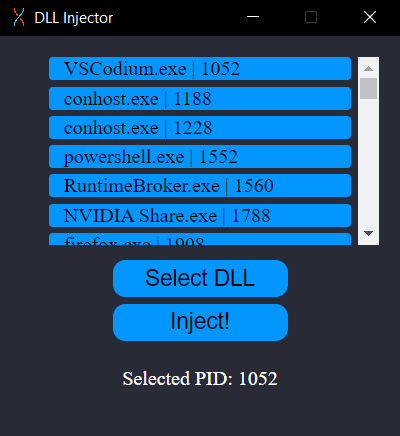
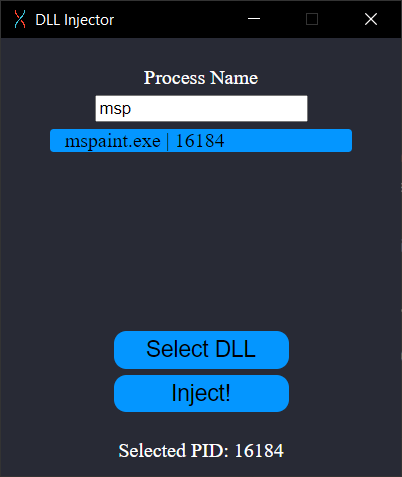
Search Bar

diff --git a/src/assets/main.css b/src/assets/main.css
@@ -13,6 +13,7 @@ button{
     width: 140px;
     height: 30px;
     font-size: 18px;
+    cursor: pointer;
 }
 
 button:hover{
@@ -48,6 +49,7 @@ button:hover{
     float: left;
     padding-left: 12px;
     border-radius: 3px;
+    cursor: pointer;
 }
 
 #listparent{
@@ -66,5 +68,9 @@ button:hover{
 
 
 #debug{
+    color: #ffffff;
+}
+
+#search_label{
     color: #ffffff;
 }

diff --git a/src/main.rs b/src/main.rs
@@ -1,14 +1,13 @@
 pub mod error;
 
-use std::{ffi::c_void, mem, ptr, slice};
+use std::{ffi::{c_void, CString}, mem, ptr, slice};
 
 use dioxus::{desktop::tao::dpi::LogicalSize, prelude::*};
 use error::{FileSelectorError, InjectorError};
 use windows::{
-    core::GUID,
+    core::{GUID, PCSTR},
     Win32::{
         Foundation::{CloseHandle, HINSTANCE},
-        Security::SECURITY_ATTRIBUTES,
         System::{
             Com::{
                 CoCreateInstance, CoInitializeEx, CoUninitialize, CLSCTX_ALL,
@@ -16,7 +15,7 @@ use windows::{
             },
             Diagnostics::Debug::WriteProcessMemory,
             LibraryLoader::{GetModuleHandleA, GetProcAddress},
-            Memory::{VirtualAllocEx, VirtualFreeEx, MEM_COMMIT, MEM_RELEASE, PAGE_READWRITE},
+            Memory::{VirtualAllocEx, VirtualFreeEx, MEM_COMMIT, MEM_RELEASE, PAGE_READWRITE, MEM_RESERVE},
             ProcessStatus::{K32EnumProcessModules, K32EnumProcesses, K32GetModuleBaseNameA},
             Threading::{
                 CreateRemoteThread, OpenProcess, WaitForSingleObject, PROCESS_ALL_ACCESS,
@@ -33,7 +32,7 @@ fn main() {
         c.with_window(|w| {
             w.with_title("DLL Injector")
                 .with_resizable(false)
-                .with_inner_size(LogicalSize::new(320.0, 320.0))
+                .with_inner_size(LogicalSize::new(320.0, 350.0))
         })
     });
 }
@@ -42,40 +41,65 @@ fn app(cx: Scope) -> Element {
     let pid = use_state(&cx, || 0u32);
     let path = use_state(&cx, || String::new());
     let debug_value = use_state(&cx, || String::new());
+    let search_value = use_state(&cx, || String::new());
 
-    let process = unsafe {
-        show_all_process()
-            .unwrap()
-            .into_iter()
-            .map(|(proc_pid, proc_name)| {
-                rsx! {
-                    li{
-                        class: "processlistchild",
 
-                        onclick: move |_|{
-                            pid.set(proc_pid);
-                            debug_value.set(format!("Selected PID: {proc_pid}"))
-                        },
-
-                        "{proc_name} | {proc_pid}"
-
-                    }
-                }
-            })
-    };
     cx.render(rsx! {
         style { [include_str!("./assets/main.css")] }
         div {
                 id: "maindiv",
+            
+            
+
             ul{
                 id: "listparent",
+
+                li{
+                    class: "listchild",
+                    label{
+                        id: "search_label",
+
+                        "Process Name"
+                    }
+                }
+
+                li{
+                    class: "listchild",
+                    
+                    input{
+                        oninput: move |e| search_value.set(e.value.clone()),
+                        
+                    }
+                }
+
                 div{
                     id: "processlistdiv",
                         ul{
                         id: "processlist",
                             
-    
-                        process
+                        unsafe{
+                            show_all_process().unwrap()
+                            .into_iter()
+                            .filter(|(_, proc_name)|{
+                                proc_name.to_ascii_uppercase().contains(search_value.to_ascii_uppercase().as_str()) || search_value.is_empty()
+                            })
+                            .map(|(proc_pid, proc_name)|{
+                                rsx! {
+                                    li{
+                                        class: "processlistchild",
+                
+                                        onclick: move |_|{
+                                            pid.set(proc_pid);
+                                            debug_value.set(format!("Selected PID: {proc_pid}"))
+                                        },
+                
+                                        "{proc_name} | {proc_pid}"
+                
+                                    }
+                                }
+                            })
+                        }
+                        
                     }
                         
                 }
@@ -222,7 +246,7 @@ unsafe fn show_file_dialog() -> Result<String, FileSelectorError> {
         Ok(path) => path,
         Err(_) => return Err(FileSelectorError::GETFILEPATH),
     };
-    let hr = match String::from_utf16_lossy(slice::from_raw_parts(hr.0, 260 as usize))
+    let hr = match String::from_utf16_lossy(slice::from_raw_parts(hr.0, 260))
         .split_once("\0")
     {
         Some(path) => path.0.to_string(),
@@ -233,6 +257,13 @@ unsafe fn show_file_dialog() -> Result<String, FileSelectorError> {
 }
 
 unsafe fn start_inject(dll_path: &str, pid: u32) -> Result<(), InjectorError> {
+
+    
+    let dll_path_len = dll_path.as_bytes().len();
+    
+    println!("{dll_path_len}");
+
+
     let h_process = match OpenProcess(PROCESS_ALL_ACCESS, false, pid) {
         Ok(h_process) => h_process,
         Err(_) => return Err(InjectorError::PID),
@@ -240,9 +271,9 @@ unsafe fn start_inject(dll_path: &str, pid: u32) -> Result<(), InjectorError> {
 
     let proccess_dll_path = VirtualAllocEx(
         h_process,
-        0 as *const c_void,
-        dll_path.len(),
-        MEM_COMMIT,
+        ptr::null(),
+        dll_path_len,
+        MEM_RESERVE | MEM_COMMIT,
         PAGE_READWRITE,
     );
 
@@ -250,27 +281,37 @@ unsafe fn start_inject(dll_path: &str, pid: u32) -> Result<(), InjectorError> {
         h_process,
         proccess_dll_path,
         dll_path as *const _ as *const c_void,
-        dll_path.len(),
-        0 as *mut usize,
+        dll_path_len,
+        ptr::null_mut(),
     );
 
-    let module_handle_a = match GetModuleHandleA("Kernel32.dll") {
+    let kernel32_cstring = match CString::new("Kernel32.dll"){
+        Ok(kernel32_cstring) => kernel32_cstring,
+        Err(_) => return Err(InjectorError::MODULEHANDLE),
+    };
+
+    let module_handle_a = match GetModuleHandleA(PCSTR(kernel32_cstring.as_ptr() as *const u8)) {
         Ok(module_handle_a) => module_handle_a,
         Err(_) => return Err(InjectorError::MODULEHANDLE),
     };
 
-    let kernel_proc = match GetProcAddress(module_handle_a, "LoadLibraryA") {
+    let loadlibrary_cstring = match CString::new("LoadLibraryA"){
+        Ok(loadlibrary_cstring) => loadlibrary_cstring,
+        Err(_) => return Err(InjectorError::PROCADRESS),
+    };
+
+    let kernel_proc = match GetProcAddress(module_handle_a, PCSTR(loadlibrary_cstring.as_ptr() as *const u8)) {
         Some(kernel_proc) => kernel_proc,
         None => return Err(InjectorError::PROCADRESS),
     };
     let h_load_thread = match CreateRemoteThread(
         h_process,
-        0 as *const SECURITY_ATTRIBUTES,
+        ptr::null(),
         0,
         Some(*(&kernel_proc as *const _ as *const extern "system" fn(*mut c_void) -> u32)),
         proccess_dll_path,
         0,
-        0 as *mut u32,
+        ptr::null_mut(),
     ) {
         Ok(module_handle_a) => module_handle_a,
         Err(_) => return Err(InjectorError::REMOTETHREAD),
@@ -278,7 +319,9 @@ unsafe fn start_inject(dll_path: &str, pid: u32) -> Result<(), InjectorError> {
 
     WaitForSingleObject(h_load_thread, INFINITE);
 
-    VirtualFreeEx(h_process, proccess_dll_path, dll_path.len(), MEM_RELEASE);
+    VirtualFreeEx(h_process, proccess_dll_path, dll_path_len, MEM_RELEASE);
+
+    CloseHandle(h_process);
 
     println!("Dll injected at {proccess_dll_path:?}");
 

diff --git a/src/error.rs b/src/error.rs
@@ -38,6 +38,7 @@ impl fmt::Debug for FileSelectorError {
 }
 
 pub enum InjectorError {
+    DLLPATH,
     PID,
     MODULEHANDLE,
     PROCADRESS,
@@ -50,6 +51,7 @@ impl fmt::Display for InjectorError {
             f,
             "{}",
             match self {
+                InjectorError::DLLPATH => "DLL Path error",
                 InjectorError::PID => "PID error",
                 InjectorError::MODULEHANDLE => "MODULE_HANDLE error",
                 InjectorError::PROCADRESS => "PROCADRESS error",
@@ -65,6 +67,7 @@ impl fmt::Debug for InjectorError {
             f,
             "{}",
             match self {
+                InjectorError::DLLPATH => "DLL Path error",
                 InjectorError::PID => "PID error",
                 InjectorError::MODULEHANDLE => "MODULE_HANDLE error",
                 InjectorError::PROCADRESS => "PROCADRESS error",
